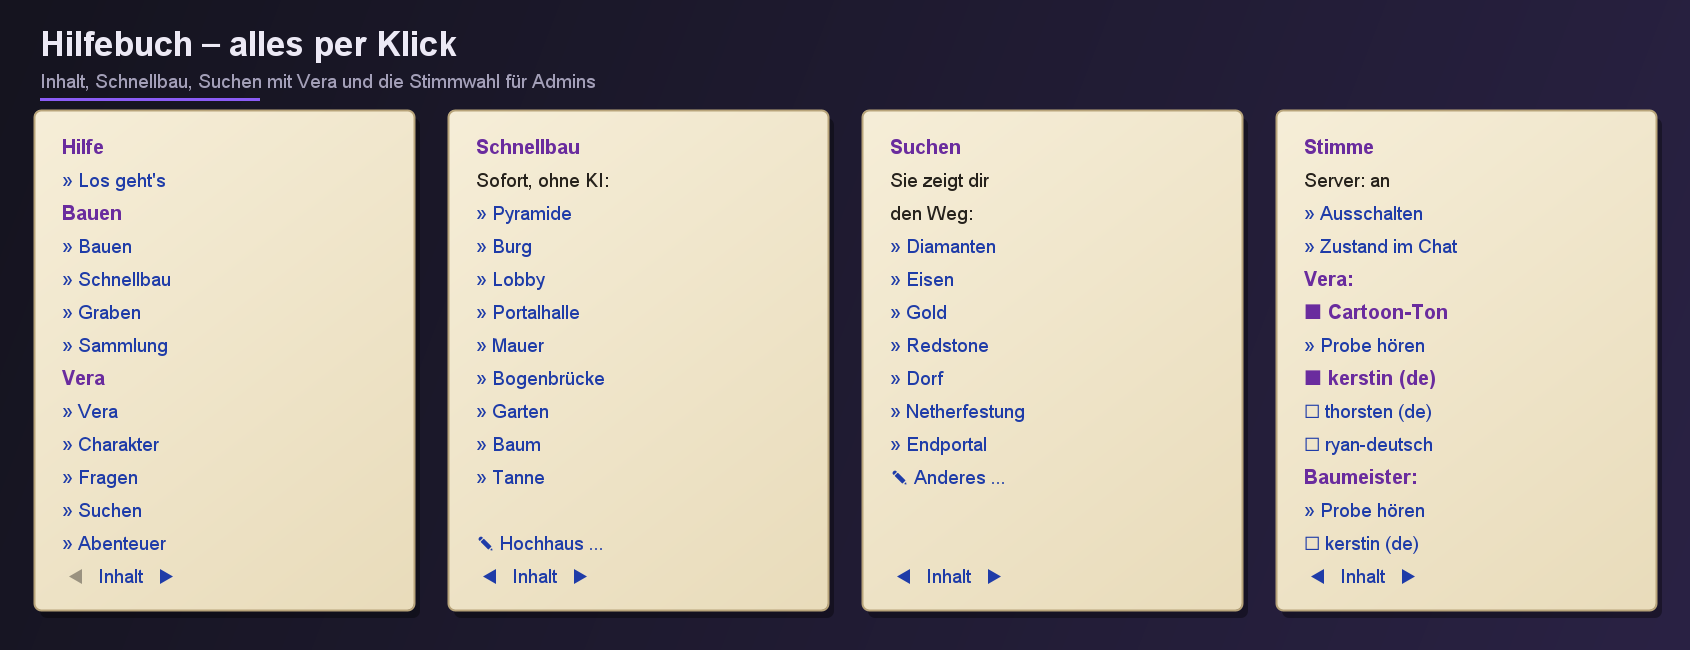
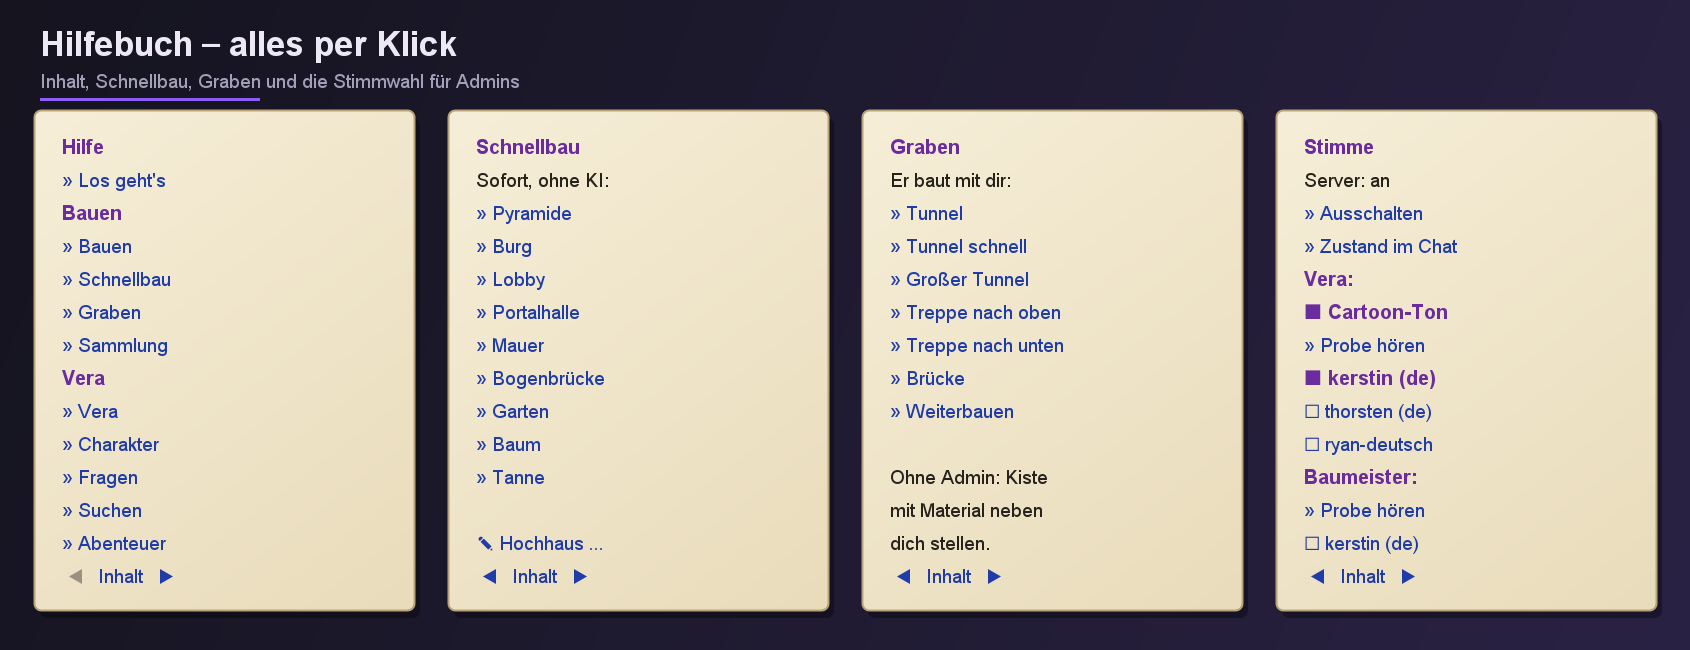
fix: Tunnel, Treppe und Brücke stehen in der /bm-Hilfe, in plugin.yml und in Veras Antwort
Hinweis des Nutzers: „du hast die brücken, tunnel und treppen vergessen“. Die Hilfe zu /bm kannte seit 2026-11-16
weder tunnel noch treppe, brücke oder weiterbauen (nur das Hilfebuch im Kapitel „Graben“), plugin.yml ließ unter
usage neun Befehle aus, und Vera nannte auf „was kann der Baumeister bauen?“ keine Tunnel und Treppen. Jetzt nennt
die Hilfe jeden Befehl, den ein Spieler benutzen darf (dazu bildschirm, schematics, fortschritt, komm), plugin.yml
jeden Unterbefehl, und Veras Modell kennt Tunnel und Treppen als Bauauftrag.

Doku: Installation Stufe 1 nennt Schnellbau, Tunnel, Treppen, Brücken und Schematics; das Hilfebuch-Bild zeigt das
Kapitel „Graben“; die Schnellbau-Karte heißt „Bogenbrücke“ – „bau eine Brücke“ baut seit 2026-11-16 die Brücke mit
Pfeilern.

Gegenproben:
- Hilfe ohne die Tunnel-Zeilen → everyPlayerCommandIsInTheHelp rot („tunnel fehlt in der Hilfe“); usage ohne
  tunnel|treppe|brücke|weiterbauen → pluginYmlUsageNamesEverySubcommand rot; Veras alte Antwort →
  buildAnswerNamesTunnelsAndStairs rot; zurück → grün. 1 677 Tests grün.

diff --git a/src/main/java/com/blackn0va/baumeister/BaumeisterCommand.java b/src/main/java/com/blackn0va/baumeister/BaumeisterCommand.java
@@ -64,6 +64,14 @@ final class BaumeisterCommand implements CommandExecutor, TabCompleter {
      * seine Rechte ändert, muss diese Zeile mitziehen – sonst zeigt die Vervollständigung wieder etwas anderes, als der
      * Befehl tut. Die eigentliche Grenze bleibt requireAdmin; das hier blendet nur aus (ASVS V4.1.1).
      */
+    /**
+     * Namen aller Unterbefehle (ohne Aliase); playerOnly: nur die ohne Admin-Recht – für die Hilfe- und
+     * plugin.yml-Tests.
+     */
+    static List<String> subcommands(boolean playerOnly) {
+        return SUBS.stream().filter(sub -> !playerOnly || !sub.adminOnly()).map(Sub::name).toList();
+    }
+
     private static final List<Sub> SUBS = List.of(
             new Sub("bau", false, List.of("baue", "build")),
             // Graben und Brücken (2026-11-16): wie /bm bau, nur ohne Auftragstext; Rechte wie bau.
@@ -530,59 +538,80 @@ final class BaumeisterCommand implements CommandExecutor, TabCompleter {
     }
 
     private void help(CommandSender s, String label) {
-        String n = plugin.npc().name();
-        if (s.hasPermission(BUILD)) {
-            Texts.info(s, "Im Chat: \"" + n + ", bau mir eine kleine Kapelle aus Stein\"");
-            Texts.info(s, "/" + label + " bau <auftrag> · stop · rückgängig · status · bauteile");
-            Texts.info(s, "/" + label + " vorschau <auftrag> (Umriss zeigen, \"ja\" baut) · warteschlange [abbrechen]");
-            Texts.info(s, "/" + label + " katalog [suchwort] – alle Schematics zum Durchklicken, Klick baut vor dir");
-            Texts.info(s, "/" + label + " helfer <0–" + HelperWish.MAX + "|auto> – Helfer für deine Bauten, auch mitten im "
+        String worlds = MainWorlds.label(plugin.getConfig());
+        for (String line : helpLines(label, plugin.npc().name(), s::hasPermission, worlds)) {
+            Texts.info(s, line);
+        }
+    }
+
+    /**
+     * Zeilen der Hilfe zu /bm, je nach Recht. Ohne Bukkit, damit BaumeisterCommandTest prüft, dass jeder Befehl, den
+     * ein Spieler benutzen darf, darin vorkommt: Tunnel, Treppe, Brücke und Weiterbauen fehlten hier seit 2026-11-16
+     * (Hinweis des Nutzers 2026-11-19) – im Hilfebuch standen sie im Kapitel „Graben“, in /bm nicht.
+     */
+    static List<String> helpLines(String label, String n, java.util.function.Predicate<String> has, String mainWorlds) {
+        List<String> out = new java.util.ArrayList<>();
+        String bm = "/" + label;
+        if (has.test(BUILD)) {
+            out.add("Im Chat: \"" + n + ", bau mir eine kleine Kapelle aus Stein\"");
+            out.add(bm + " bau <auftrag> · stop · rückgängig · status · bauteile");
+            out.add(bm + " vorschau <auftrag> (Umriss zeigen, \"ja\" baut) · warteschlange [abbrechen]");
+            out.add(bm + " katalog [suchwort] – alle Schematics zum Durchklicken, Klick baut vor dir");
+            out.add(bm + " tunnel [länge] [schnell] [groß|klein] – Tunnel graben, ohne Länge mit dir zusammen; im Chat "
+                    + "\"" + n + ", grab mit mir einen Tunnel\"");
+            out.add(bm + " treppe [runter] – Treppe nach oben oder unten · brücke [länge] [schnell] – Brücke "
+                    + "übers Wasser · weiterbauen – Tunnel, Treppe oder Brücke fortsetzen · \"stopp\" hält an");
+            out.add(bm + " schematics [suchwort] – Schematics als Liste · bildschirm [uhr|laufschrift <text>|groß"
+                    + "|weg] – Bildschirm aus Karten vor dir");
+            out.add(bm + " fortschritt – Stand mit Restzeit · komm – den Baumeister zu dir holen");
+            out.add(bm + " helfer <0–" + HelperWish.MAX + "|auto> – Helfer für deine Bauten, auch mitten im "
                     + "Bau; oder im Auftrag \"… mit 4 Helfern\", im Chat \"mehr helfer\"");
         }
-        if (s.hasPermission(TRAVEL)) {
-            Texts.info(s, "/" + label + " karte – Minikarte in die Hand; Linksklick zoomt hinein, Rechtsklick hinaus "
+        if (has.test(TRAVEL)) {
+            out.add(bm + " karte – Minikarte in die Hand; Linksklick zoomt hinein, Rechtsklick hinaus "
                     + "(Schleichen: schneller) · karte punkt <Name> · punkte · ziel <Name> · weg <Name> · drehen an|aus");
-            Texts.info(s, "/" + label + " orte [seite|suchwort] · ort <Name> – Sprungpunkte zu gebauten Städten und Orten"
-                    + (s.hasPermission("baumeister.admin") ? " · ort merken <Name> · ort löschen <Name>" : ""));
+            out.add(bm + " orte [seite|suchwort] · ort <Name> – Sprungpunkte zu gebauten Städten und Orten"
+                    + (has.test("baumeister.admin") ? " · ort merken <Name> · ort löschen <Name>" : ""));
         }
-        if (s.hasPermission("baumeister.admin")) {
-            Texts.info(s, "/" + label + " bauteil <name> <vorne n|o|s|w> <beschreibung> – WorldEdit-Auswahl als Bauteil");
-            Texts.info(s, "/" + label + " spawn [skin-spieler] · entfernen · neuladen · bauenbei <welt> <x> <y> <z> <n|o|s|w> <auftrag>");
-            Texts.info(s, "/" + label + " portal <warp|welt|spawn> [Anzeige] – leeren Obsidianrahmen entzünden und "
+        if (has.test("baumeister.admin")) {
+            out.add(bm + " bauteil <name> <vorne n|o|s|w> <beschreibung> – WorldEdit-Auswahl als Bauteil");
+            out.add(bm + " spawn [skin-spieler] · entfernen · neuladen · bauenbei <welt> <x> <y> <z> <n|o|s|w> "
+                    + "<auftrag>");
+            out.add(bm + " portal <warp|welt|spawn> [Anzeige] – leeren Obsidianrahmen entzünden und "
                     + "verbinden (in ihm stehen oder hindurchschauen) · portal entfernen · portal liste");
-            Texts.info(s, "/" + label + " einrichten – frischen Server Schritt für Schritt: Lobby, Weltspawn, Portale, "
+            out.add(bm + " einrichten – frischen Server Schritt für Schritt: Lobby, Weltspawn, Portale, "
                     + "Burgen · einrichten spawn – Weltspawn genau hierher");
-            Texts.info(s, "/" + label + " leistung – TPS, Tick-Zeiten, Heap, Chunks und Aufträge der letzten Minute · "
+            out.add(bm + " leistung – TPS, Tick-Zeiten, Heap, Chunks und Aufträge der letzten Minute · "
                     + "neuladen erzwingen – Bau-Einstellungen auch mit vollem Rückgängig-Stapel übernehmen");
-            Texts.info(s, "/" + label + " maschine <name> [<welt> <x> <y> <z> <n|o|s|w>] – Bauteil direkt bauen, ohne LLM");
-            Texts.info(s, "/" + label + " sprache [an|aus|stimme <name>|vera <name>|ton normal|cartoon|probe] – Stimmen vom "
+            out.add(bm + " maschine <name> [<welt> <x> <y> <z> <n|o|s|w>] – Bauteil direkt bauen, ohne LLM");
+            out.add(bm + " sprache [an|aus|stimme <name>|vera <name>|ton normal|cartoon|probe] – Stimmen vom "
                     + "Server schalten und wählen (stimme = Baumeister, vera und ton = Vera)");
         }
-        if (s.hasPermission(com.blackn0va.baumeister.plan.Tier.COMMANDS.permission())) {
-            Texts.info(s, "/" + label + " befehlsblock [befehl] – Befehlsblock, auf den du schaust, zeigen (Art, bedingt, "
+        if (has.test(com.blackn0va.baumeister.plan.Tier.COMMANDS.permission())) {
+            out.add(bm + " befehlsblock [befehl] – Befehlsblock, auf den du schaust, zeigen (Art, bedingt, "
                     + "immer aktiv, Befehl zum Anklicken) oder seinen Befehl setzen; in jedem Spielmodus");
         }
-        if (s.hasPermission("baumeister.admin")) {
-            Texts.info(s, "/" + label + " logik <Formel> – Redstone-Schaltung aus einer Formel, z. B. "
+        if (has.test("baumeister.admin")) {
+            out.add(bm + " logik <Formel> – Redstone-Schaltung aus einer Formel, z. B. "
                     + "\"Q = A und (B oder nicht C)\", mehrere Ausgänge mit ; getrennt (\"S = A xor B; C = A und B\"); "
                     + "Konsole: logikbei <welt> <x> <y> <z> <n|o|s|w> <Formel>");
-            Texts.info(s, "/" + label + " stadt <Ort|lat,lon> [radius] · stadt los [echt | <welt> <x> <y> <z>] · stadt abbrechen – "
+            out.add(bm + " stadt <Ort|lat,lon> [radius] · stadt los [echt | <welt> <x> <y> <z>] · stadt abbrechen – "
                     + "echter Ort 1:1 aus OpenStreetMap");
-            Texts.info(s, "/" + label + " weltbau <Ort|lat,lon> [radius] · weltbau auto an|aus · status · stop · "
+            out.add(bm + " weltbau <Ort|lat,lon> [radius] · weltbau auto an|aus · status · stop · "
                     + "rückgängig [tx tz] – OpenStreetMap auf das Gelände der Erdwelt");
-            Texts.info(s, "/" + label + " pause · weiter · tempo <blöcke/tick> · helfer <n> · fortschritt · komm – oder im "
+            out.add(bm + " pause · weiter · tempo <blöcke/tick> · helfer <n> – Stadtbau steuern, oder im "
                     + "Chat: \"" + n + ", schneller\"");
-            Texts.info(s, "/" + label + " erde · reise <Ort|lat,lon> · wo [x z] – die ganze Erde 1:1 als eine Welt");
+            out.add(bm + " erde · reise <Ort|lat,lon> · wo [x z] – die ganze Erde 1:1 als eine Welt");
         }
         // Begleiter darf jeder rufen (plugin.yml) – deshalb außerhalb der Admin-Zeilen.
-        if (s.hasPermission(COMPANION)) {
-            Texts.info(s, "/" + label + " begleiter [weg] – Vera rufen; im Chat \"Hey Vera, …\"");
-            Texts.info(s, "/" + label + " begleiter abenteuer team <spieler> | annehmen – zusammen spielen, "
+        if (has.test(COMPANION)) {
+            out.add(bm + " begleiter [weg] – Vera rufen; im Chat \"Hey Vera, …\"");
+            out.add(bm + " begleiter abenteuer team <spieler> | annehmen – zusammen spielen, "
                     + "was einer schafft, zählt für alle");
-            Texts.info(s, "/" + label + " begleiter abenteuer [normal|hardcore|stand|aus] – Minecraft mit Vera "
-                    + "durchspielen (nur " + MainWorlds.label(plugin.getConfig()) + "); im Chat \"Vera, lass uns Minecraft "
-                    + "spielen\"");
+            out.add(bm + " begleiter abenteuer [normal|hardcore|stand|aus] – Minecraft mit Vera "
+                    + "durchspielen (nur " + mainWorlds + "); im Chat \"Vera, lass uns Minecraft spielen\"");
         }
+        return out;
     }
 
     private void listModules(CommandSender s) {

diff --git a/src/test/java/com/blackn0va/baumeister/bilder/ReadmeBilder.java b/src/test/java/com/blackn0va/baumeister/bilder/ReadmeBilder.java
@@ -292,7 +292,9 @@ public final class ReadmeBilder {
     static void schnellbau(Path file) throws Exception {
         List<Shot> shots = List.of(new Shot("Pyramide", "eine Pyramide"), new Shot("Burg", "eine Burg"),
                 new Shot("Hochhaus, 8 Stockwerke", "ein Hochhaus mit 8 Stockwerken"),
-                new Shot("Brücke", "eine Brücke"), new Shot("Garten", "einen Garten"),
+                // Seit 2026-11-16 baut „eine Brücke“ die Brücke mit Pfeilern (Bild tunnel); die Bauform heißt
+                // Bogenbrücke.
+                new Shot("Bogenbrücke", "eine Bogenbrücke"), new Shot("Garten", "einen Garten"),
                 new Shot("Tanne", "eine Tanne"));
         int tw = 620;
         int th = 470;
@@ -583,7 +585,8 @@ public final class ReadmeBilder {
         List<HelpBook.Page> pages = HelpBook.pages(c);
         List<HelpBook.Page> pick = new ArrayList<>();
         pick.add(pages.getFirst());
-        for (String ch : List.of("Schnellbau", "Suchen", HelpBook.VOICE_CHAPTER)) {
+        // Graben statt Suchen (2026-11-19): Tunnel, Treppe und Brücke fehlten sonst im Bild.
+        for (String ch : List.of("Schnellbau", "Graben", HelpBook.VOICE_CHAPTER)) {
             pages.stream().filter(p -> p.chapter().equals(ch)).findFirst().ifPresent(pick::add);
         }
         int pw = 380;
@@ -593,7 +596,7 @@ public final class ReadmeBilder {
         BufferedImage img = new BufferedImage(pick.size() * (pw + gap) + gap, head + ph + 40,
                 BufferedImage.TYPE_INT_ARGB);
         Graphics2D g = canvas(img);
-        title(g, "Hilfebuch – alles per Klick", "Inhalt, Schnellbau, Suchen mit Vera und die Stimmwahl für Admins",
+        title(g, "Hilfebuch – alles per Klick", "Inhalt, Schnellbau, Graben und die Stimmwahl für Admins",
                 img.getWidth());
         for (int i = 0; i < pick.size(); i++) {
             page(g, pick.get(i), gap + i * (pw + gap), head, pw, ph);

diff --git a/src/test/java/com/blackn0va/baumeister/BaumeisterCommandTest.java b/src/test/java/com/blackn0va/baumeister/BaumeisterCommandTest.java
@@ -281,6 +281,33 @@ class BaumeisterCommandTest {
      * „/bm grab ein tunnel“ (dev01 2026-11-16): zeigte dreimal nur die Hilfe. Grabsätze gehen jetzt den Grabweg,
      * alles andere bleibt bei der Hilfe – ein Tippfehler baut nichts.
      */
+    /**
+     * Jeder Befehl, den ein Spieler benutzen darf, steht in der Hilfe zu /bm. Hinweis des Nutzers 2026-11-19: Tunnel,
+     * Treppe, Brücke und Weiterbauen fehlten dort seit 2026-11-16 – dazu Bildschirm, Schematics, Fortschritt und Komm.
+     */
+    @Test
+    void everyPlayerCommandIsInTheHelp() {
+        Set<String> rights = Set.of("baumeister.bauen", "baumeister.reisen", "baumeister.begleiter");
+        String help = String.join("\n", BaumeisterCommand.helpLines("bm", "Baumeister", rights::contains, "world"));
+        for (String sub : BaumeisterCommand.subcommands(true)) {
+            Matcher m = Pattern.compile("(?<!\\p{L})" + Pattern.quote(sub) + "(?!\\p{L})").matcher(help);
+            assertTrue(m.find(), sub + " fehlt in der Hilfe");
+        }
+        assertFalse(help.contains("bauenbei"), "Admin-Befehle nicht in der Spieler-Hilfe");
+    }
+
+    /** plugin.yml nennt unter usage jeden Unterbefehl – dort fehlten neun, darunter tunnel, treppe und brücke. */
+    @Test
+    void pluginYmlUsageNamesEverySubcommand() throws IOException {
+        String yml = Files.readString(Path.of("src/main/resources/plugin.yml"), StandardCharsets.UTF_8);
+        Matcher m = Pattern.compile("usage: /<command> <([^>]+)>").matcher(yml);
+        assertTrue(m.find(), "usage fehlt");
+        Set<String> usage = Set.of(m.group(1).split("\\|"));
+        for (String sub : BaumeisterCommand.subcommands(false)) {
+            assertTrue(usage.contains(sub), sub + " fehlt in plugin.yml unter usage");
+        }
+    }
+
     @Test
     void aDigSentenceAfterBmIsAnOrderAndAnythingElseStaysHelp() {
         assertTrue(BaumeisterCommand.digSentence("grab ein tunnel"));

diff --git a/src/main/java/com/blackn0va/baumeister/companion/CompanionIntent.java b/src/main/java/com/blackn0va/baumeister/companion/CompanionIntent.java
@@ -214,9 +214,11 @@ public final class CompanionIntent {
             return Optional.of(CompanionCharacter.line(CompanionCharacter.Line.RUDE, cheeky, pick));
         }
         if (BUILD_Q.matcher(full).find()) {
+            // Tunnel und Treppen fehlten hier, seit es sie gibt (2026-11-16; Hinweis des Nutzers 2026-11-19).
             return Optional.of("Der Baumeister baut Häuser, Dörfer, Iglus, Burgen, Brücken, Pools, Bunker und "
-                    + "Hochhäuser – und geprüfte Maschinen: Türen, Fahrstühle, Farmen, Logik, einen Taschenrechner, "
-                    + "eine 7-Segment-Anzeige und Prozessor-Bausteine. Sag zum Beispiel „bau mir ein Iglu“.");
+                    + "Hochhäuser, gräbt Tunnel und Treppen – und baut geprüfte Maschinen: Türen, Fahrstühle, Farmen, "
+                    + "Logik, einen Taschenrechner, eine 7-Segment-Anzeige und Prozessor-Bausteine. Sag zum Beispiel "
+                    + "„bau mir ein Iglu“ oder „grab mit mir einen Tunnel“.");
         }
         if (HELP.matcher(full).find()) {
             return Optional.of("Ich gebe dir Sachen (im Kreativmodus), finde Erze, bringe dich zu Warps, stelle Tag "

diff --git a/src/test/java/com/blackn0va/baumeister/companion/CompanionIntentTest.java b/src/test/java/com/blackn0va/baumeister/companion/CompanionIntentTest.java
@@ -109,4 +109,13 @@ class CompanionIntentTest {
         assertEquals("iron_ore", CompanionRules.oreFor("eisen"));
         assertEquals(null, CompanionRules.oreFor("Dorf"));
     }
+
+    /** Auf „was kann der Baumeister bauen?“ nennt Vera auch Tunnel und Treppen – sie fehlten seit 2026-11-16. */
+    @Test
+    void buildAnswerNamesTunnelsAndStairs() {
+        String a = CompanionIntent.chat("Was kann der Baumeister alles bauen?").orElseThrow();
+        assertTrue(a.contains("Tunnel"), a);
+        assertTrue(a.contains("Treppen"), a);
+        assertTrue(a.contains("Brücken"), a);
+    }
 }

diff --git a/README.md b/README.md
@@ -31,8 +31,8 @@ Alle Dokumente auf einen Blick: [docs/](docs/README.md).
 
 - **Bauen auf Zuruf.** „Baumeister, bau mir ein kleines Haus aus Fichtenholz“ – eine lokale KI plant, das Plugin
   prüft jeden Block, und der NPC setzt ihn sichtbar. Vorschau, Rückgängig und Warteschlange inklusive.
-- **Schnellbau ohne KI.** Pyramide, Burg, Hochhaus, Brücke, Garten, Bäume, Farmen, Bunker, Lobby – sofort, auch wenn
-  keine KI läuft.
+- **Schnellbau ohne KI.** Pyramide, Burg, Hochhaus, Bogenbrücke, Garten, Bäume, Farmen, Bunker, Lobby – sofort, auch
+  wenn keine KI läuft.
 - **Tunnel, Treppen und Brücken.** „Grab mit mir einen Tunnel“: Er gräbt vor dir her, ausgemauert und mit Laternen,
   schnurgerade bis 10 000 Blöcke, über Täler und Seen als Röhre. Treppen hinauf und hinab, Brücken mit Pfeilern bis
   zum Grund. Was er abgräbt, steht in vollen Fässern in der Tunnelwand.
@@ -46,13 +46,13 @@ Alle Dokumente auf einen Blick: [docs/](docs/README.md).
 - **Für alle Spieler.** Hilfebuch zum Anklicken, Rucksack mit Teamkisten, Warps, Tagesaufgaben, Mods-Download.
 - **Nichts geht verloren.** Rückgängig für die letzten 50 Bauten, auch nach einem Neustart.
 
-<img src="docs/bilder/schnellbau.png" alt="Sechs Bauwerke, die der Baumeister ohne KI sofort baut: Pyramide, Burg, Hochhaus, Brücke, Garten, Tanne" width="100%">
+<img src="docs/bilder/schnellbau.png" alt="Sechs Bauwerke, die der Baumeister ohne KI sofort baut: Pyramide, Burg, Hochhaus, Bogenbrücke, Garten, Tanne" width="100%">
 
 <img src="docs/bilder/tunnel.png" alt="Tunnel im Fels, Röhre über einen See, Treppe nach oben und nach unten, Brücke übers Wasser und ein großer Tunnel im Tiefenschiefer – echte Pläne aus TunnelShape" width="100%">
 
 <table>
 <tr>
-<td width="60%"><img src="docs/bilder/hilfebuch.png" alt="Hilfebuch mit Inhalt, Schnellbau, Suchen und Stimmwahl"></td>
+<td width="60%"><img src="docs/bilder/hilfebuch.png" alt="Hilfebuch mit Inhalt, Schnellbau, Graben (Tunnel, Treppen, Brücke) und Stimmwahl"></td>
 <td width="40%"><img src="docs/bilder/katalog.png" alt="Katalog der Schematics als Kistenfenster"></td>
 </tr>
 <tr>
@@ -77,7 +77,7 @@ geprüft · ⚠ läuft mit Grenzen · ❌ geht nicht
 | Bereich | Was geht | Was noch nicht |
 |---|---|---|
 | **Bauen per KI** | ✅ Aufträge per `/bm bau`: die KI plant, das Plugin prüft jeden Block, der NPC baut | 🧪 derselbe Auftrag im Chat („Baumeister, …“) von einem echten Spieler · ⚠ freie Entwürfe (Brunnen, Turmdetails) mit dem 7B-Modell schwankend, Häuser gelingen |
-| **Schnellbau ohne KI** | ✅ Pyramide, Burg, Hochhaus, Brücke, Garten, Bäume, Farmen, Bunker, Lobby, Portalhalle | 🧪 Mauer und Baum noch nicht im Spiel gebaut |
+| **Schnellbau ohne KI** | ✅ Pyramide, Burg, Hochhaus, Bogenbrücke, Garten, Bäume, Farmen, Bunker, Lobby, Portalhalle | 🧪 Mauer und Baum noch nicht im Spiel gebaut |
 | **Tunnel, Treppen, Brücken** | ✅ Tunnel bis 10 000 Blöcke, Röhre über Täler und Seen, Treppe hinauf und hinab, Brücke, Weiterbauen, „stopp“ – auf beiden Testservern; Tunnel, Treppe nach oben und Brücke auch im Spiel | 🧪 mit einem echten Spieler: Mitgraben ohne Ende, Treppe aus dem Gang heraus, Fässer aus der Kiste bezahlt |
 | **Maschinen und Logik** | ✅ 28 Maschinen in vier Richtungen (112/112), 16 Formeln in vier Richtungen (64/64) | ❌ `akkumulator_4bit` baut nach Süden fehlerhaft · ⚠ Logik bis 5 Eingänge, Ausgänge nicht beschildert, Stockwerke nur nach Norden geprüft |
 | **Farmen** | ✅ acht Farmen ohne KI, je in vier Richtungen geprüft, mit Bedienhinweisen | 🧪 Ertrag über Stunden (Golems, Kaktus) nicht im Spiel gemessen |

diff --git a/docs/spielen.md b/docs/spielen.md
@@ -39,6 +39,7 @@ Alles geht auch per Klick: **`/hilfe`** öffnet das Hilfebuch, jede Zeile darin 
 | „bau eine Burg“, „bau eine Pyramide“ | Schnellbau, sofort, ohne KI |
 | „bau ein Hochhaus mit 8 Stockwerken“ | Hochhaus mit Fensterbändern |
 | „bau eine Eisenfarm“ | geprüfte Farm, danach sagt er dir, was du noch tun musst |
+| „grab mit mir einen Tunnel“, „bau mir eine Treppe nach oben“, „bau eine Brücke übers Meer“ | Tunnel, Treppe, Brücke – [siehe unten](#tunnel-treppen-und-brücken) |
 | „schneller“, „langsamer“ | laufender Bau im Schnellgang bzw. wieder Block für Block |
 | „… mit 4 Helfern“, „mehr Helfer“ | Helfer-NPCs bauen mit |
 
@@ -46,9 +47,9 @@ Alles geht auch per Klick: **`/hilfe`** öffnet das Hilfebuch, jede Zeile darin 
 
 <img src="bilder/schnellbau.png" alt="Pyramide, Burg, Hochhaus, Brücke, Garten und Tanne aus dem Schnellbau" width="100%">
 
-Diese Bauwerke kennt er auswendig und baut sie sofort: **Pyramide, Burg, Hochhaus, Brücke und Bogenbrücke, Garten,
-Baum, Tanne, Mauer, Lobby, Portalhalle, Bunker** und **acht Farmen**. Die Liste mit Knöpfen steht im Hilfebuch unter
-„Schnellbau“.
+Diese Bauwerke kennt er auswendig und baut sie sofort: **Pyramide, Burg, Hochhaus, Bogenbrücke, Garten, Baum,
+Tanne, Mauer, Lobby, Portalhalle, Bunker** und **acht Farmen**. Die Liste mit Knöpfen steht im Hilfebuch unter
+„Schnellbau“. „bau eine Brücke“ baut die lange Brücke mit Pfeilern – sie steht unten bei Tunnel und Treppen.
 
 ## Tunnel, Treppen und Brücken
 
@@ -115,7 +116,7 @@ hat. Welche Mods du brauchst, sagt dir `/mods`. Die meisten Sätze versteht sie 
 
 ## Für alle Spieler
 
-<img src="bilder/hilfebuch.png" alt="Hilfebuch mit Inhalt, Schnellbau, Suchen und Stimmwahl" width="100%">
+<img src="bilder/hilfebuch.png" alt="Hilfebuch mit Inhalt, Schnellbau, Graben (Tunnel, Treppen, Brücke) und Stimmwahl" width="100%">
 
 | Befehl | Was es ist |
 |---|---|

diff --git a/docs/installation.md b/docs/installation.md
@@ -7,7 +7,7 @@ Der Baumeister kommt in drei Stufen. Jede läuft für sich; die nächste ist nur
 
 | Stufe | Was du bekommst | Was du brauchst |
 |---|---|---|
-| 1 – nur das Plugin | Farmen, Maschinen und Redstone-Schaltungen auf Zuruf, Städte und Gelände 1:1 aus OpenStreetMap, Begleiterin Vera (ohne Sprachmodell), Rucksack, Warps, Tagesaufgaben, Minikarte, Hilfebuch | Paper oder Spigot, 5 Minuten |
+| 1 – nur das Plugin | Schnellbau (Burg, Pyramide, Hochhaus …), Tunnel, Treppen und Brücken, Schematics, Farmen, Maschinen und Redstone-Schaltungen auf Zuruf, Städte und Gelände 1:1 aus OpenStreetMap, Begleiterin Vera (ohne Sprachmodell), Rucksack, Warps, Tagesaufgaben, Minikarte, Hilfebuch | Paper oder Spigot, 5 Minuten |
 | 2 – KI auf demselben Rechner | dazu Bauaufträge in freien Worten („bau mir eine Kapelle aus Stein“), Vera mit Sprachmodell | Windows-PC mit Grafikkarte, auf dem auch der Minecraft-Server läuft |
 | 3 – KI auf einem anderen PC | dasselbe, der Minecraft-Server läuft woanders (Linux-Server, gemieteter Rechner) | Linux mit systemd auf dem Server, Router-Freigabe eines Ports |
 

diff --git a/CHANGELOG.md b/CHANGELOG.md
@@ -273,6 +273,10 @@ Alle nennenswerten Änderungen. Format nach [Keep a Changelog](https://keepachan
   Installationen behalten ihre gespeicherte Adresse.
 
 ### Behoben
+- **Tunnel, Treppen und Brücken überall genannt:** Die Hilfe zu `/bm` kannte sie nicht (nur das Hilfebuch im
+  Kapitel „Graben“), `plugin.yml` ließ neun Befehle aus, darunter `tunnel`, `treppe`, `brücke` und
+  `weiterbauen`, und Vera nannte auf „was kann der Baumeister bauen?“ keine Tunnel und Treppen. Jetzt stehen in
+  der `/bm`-Hilfe alle Befehle, die ein Spieler benutzen darf – ein Test hält das für neue Befehle fest.
 - **„stopp“ hält den Tunnel wirklich an:** Ein „/bm stop“ in der Pause zwischen zwei Stücken eines langen Tunnels
   verpuffte, das nächste Stück begann trotzdem – auf dev01 zweimal hintereinander. Jetzt endet der ganze Auftrag, auch
   in der Pause; eigene wartende Aufträge fallen mit weg. „tunnel stopp“ hält ebenso an, und ein neuer Grabauftrag löst
